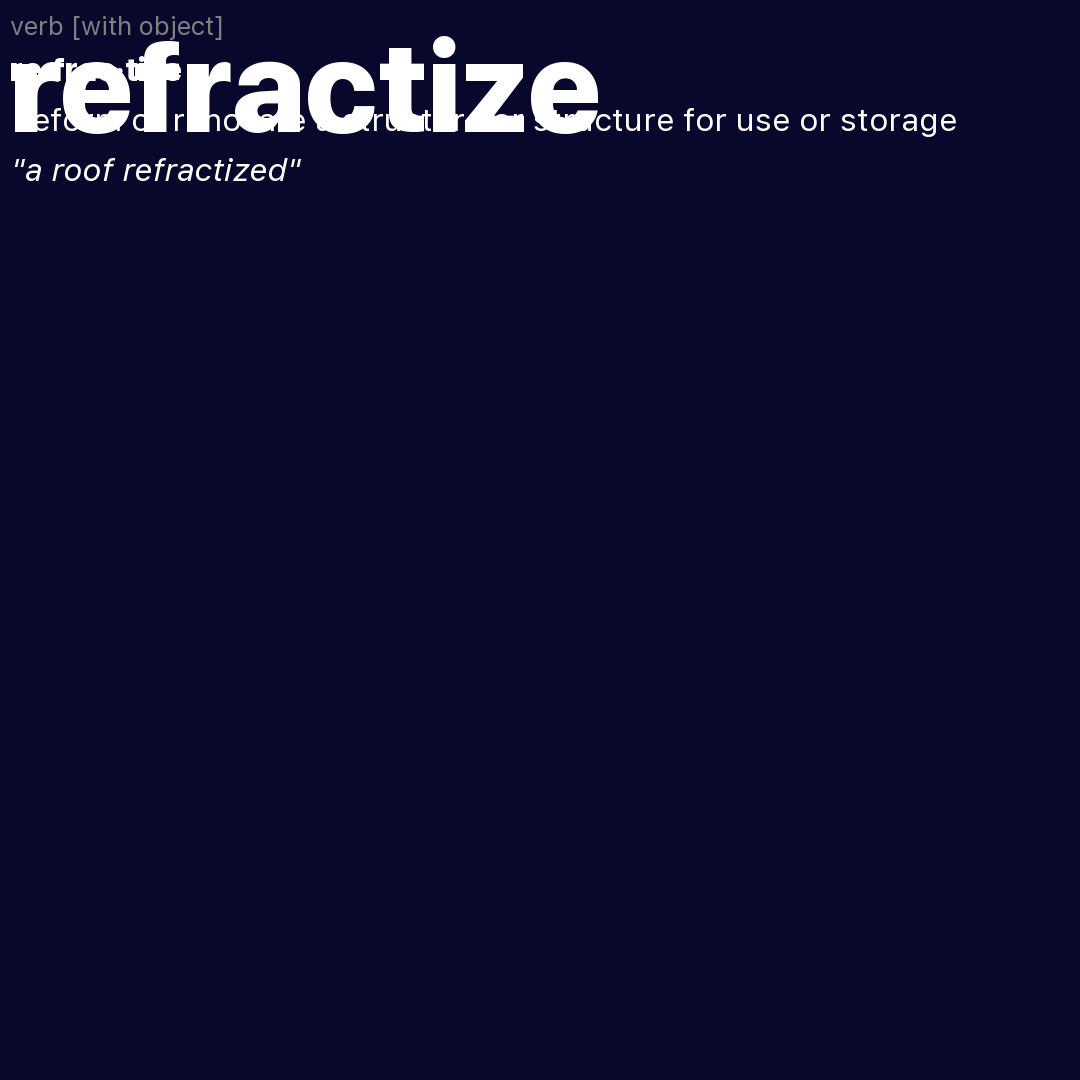
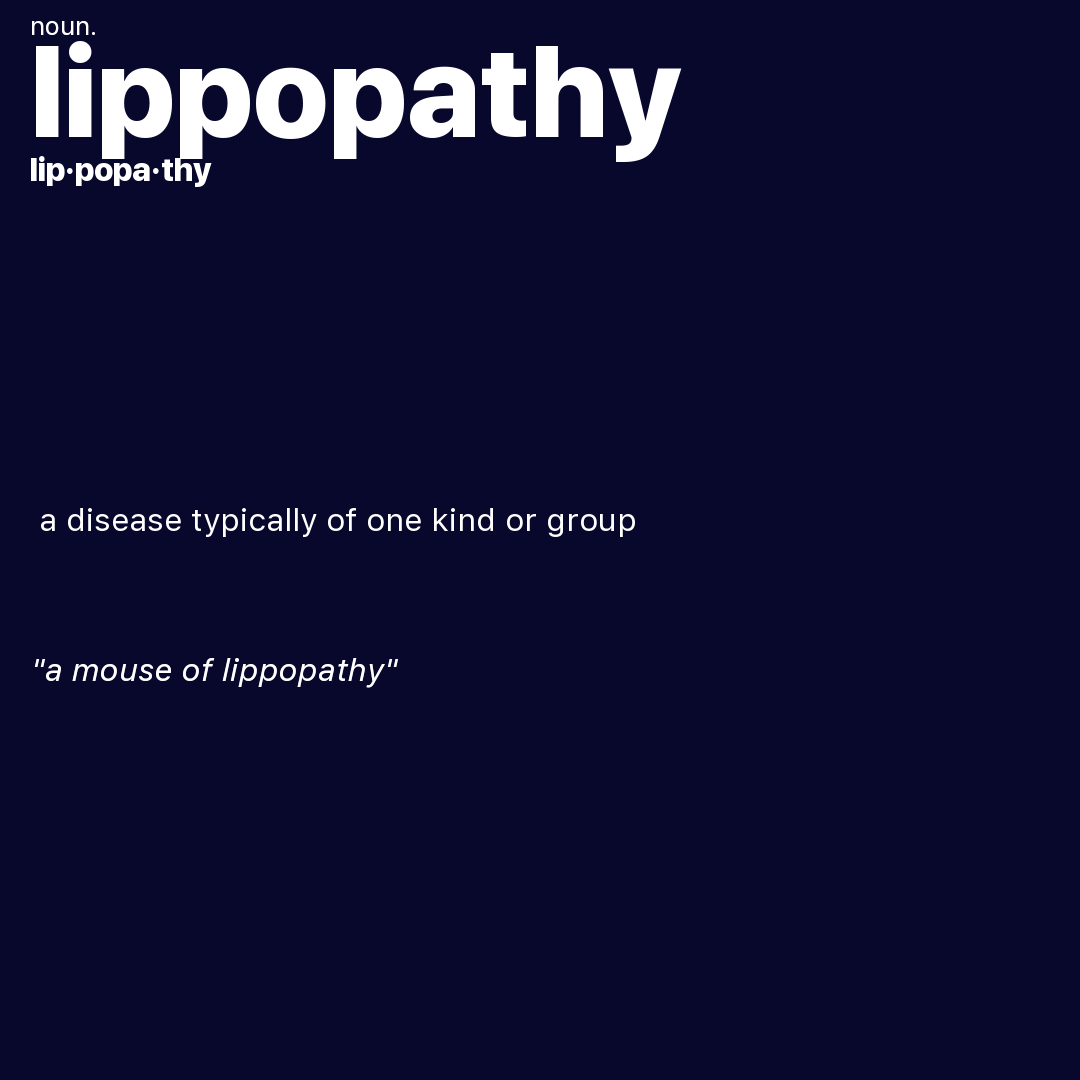
added alpha property support

Changed region(s): [[0.0, 0.0, 0.8861, 0.1833], [0.0306, 0.4583, 0.5806, 0.4889], [0.0306, 0.6111, 0.3667, 0.6417]]

diff --git a/test.py b/test.py
@@ -2,11 +2,12 @@ from PIL import Image, ImageFont, ImageDraw
 from scraper import Scraper as Scrap
 from datetime import datetime
 
-# New image, size 1080x1080, solid color HEX = #08082d // RGB(8, 8, 45)
-img = Image.new('RGB', (1080, 1080), (8, 8, 45))
+# 0: main color; 1: text color; 2: type and example color
+colors = [(8, 8, 45, 255), (255, 255, 255, 255), (255, 255, 255, 128)]
 
-# White Text = rgb(255, 252, 255)
-# Grey Text = rgb(132, 132, 150)
+# New image, size 1080x1080, solid color HEX = #08082d // RGBa(8, 8, 45, 255)
+img = Image.new('RGBA', (1080, 1080), colors[0])
+
 fontHeavy = "font/Heavy.ttf"
 fontRegular = "font/Regular.ttf"
 fontRegularItalic = "font/RegularItalic.ttf"
@@ -16,11 +17,10 @@ sizeMultiplier = 2
 # Scraped Data
 scraper = Scrap()
 
-def drawText(text, coords, fontFile, fontSize=10, color="white"):
+def drawText(text, coords, fontFile, fontSize=10, color=(255, 255, 255, 128)):
     font = ImageFont.truetype(fontFile, fontSize)
     draw = ImageDraw.Draw(img)
     draw.text(coords, text, font=font, fill=color)
-
 
 
 if __name__ == "__main__":
@@ -28,15 +28,15 @@ if __name__ == "__main__":
     print(scraper.data)
     
     # Type
-    drawText(scraper.data['type'], (10, 10), fontRegular, fontSize=13*sizeMultiplier, color="gray")
+    drawText(scraper.data['type'], (30, 10), fontRegular, fontSize=13*sizeMultiplier, color=colors[2])
     # Title
-    drawText(scraper.data['word'], (10, 15), fontHeavy, fontSize=64*sizeMultiplier, color="white")
+    drawText(scraper.data['word'], (30, 15), fontHeavy, fontSize=64*sizeMultiplier, color=colors[1])
     # Syllables
-    drawText(scraper.data['syllables'], (10, 50), fontHeavy, fontSize=16*sizeMultiplier, color="white")
+    drawText(scraper.data['syllables'], (30, 150), fontHeavy, fontSize=16*sizeMultiplier, color=colors[1])
     # Definition
-    drawText(scraper.data['definition'], (10, 100), fontRegular, fontSize=16*sizeMultiplier, color="white")
+    drawText(scraper.data['definition'], (30, 500), fontRegular, fontSize=16*sizeMultiplier, color=colors[1])
     # Example
-    drawText(scraper.data['example'], (10, 150), fontRegularItalic, fontSize=16*sizeMultiplier, color="white")
+    drawText(scraper.data['example'], (30, 650), fontRegularItalic, fontSize=16*sizeMultiplier, color=colors[2])
     
     img.save("test.png")
     img.show()
